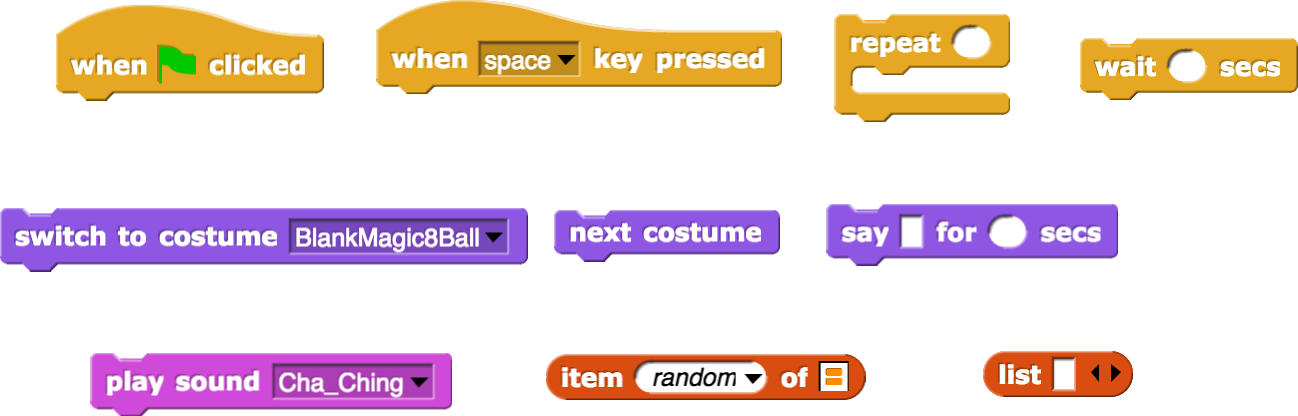
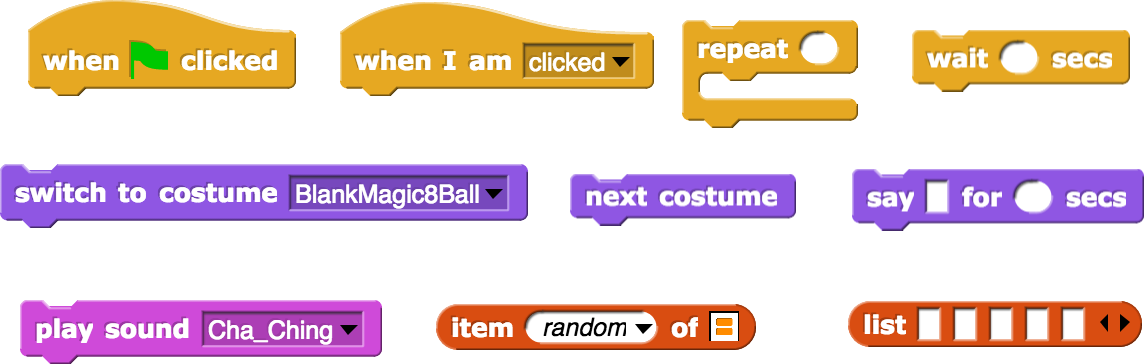
Magic 8 Ball edits

diff --git a/cur/programming/2-conditionals-abstraction-testing/new/magic8ball.html b/cur/programming/2-conditionals-abstraction-testing/new/magic8ball.html
@@ -27,9 +27,14 @@ In the “Diary of a Wimpy Kid” series book titled “Hard Luck”, the hilari
 
 <div class="forYouToDo"> 
 <ol>
-<li>Open the file <a href="http://snap.berkeley.edu/snapsource/snap.html#present:Username=selimtezel&ProjectName=Magic8Ball_Teacher&hideControls" target="_blank">linked here</a> and play with the simulation to get a feel for the toy what you are trying to model.</li> 
-
-<li>The possible answers that the toy gives to a YES/NO question is:<br />
+<li>
+<!--Open the file <a href="http://snap.berkeley.edu/snapsource/snap.html#present:Username=selimtezel&ProjectName=Magic8Ball_Teacher&hideControls" target="_blank">linked here</a> and play with the simulation to get a feel for the toy what you are trying to model.
+-->
+Watch this video to get a feel for the toy you will be modeling. <br />
+<div class="sidenote">If your connection blocks YouTube, <a href="http://scratch.mit.edu/discuss/youtube/QzN1vbU4xEw" target="_blank">watch the video here</a>.</div>
+<iframe class="indent" width="560" height="315" src="https://www.youtube.com/embed/QzN1vbU4xEw?rel=0" frameborder="0" allowfullscreen></iframe>
+</li> 
+<li>Here are some possible answers that the toy can give to a YES/NO question:<br />
 
 <table class="indent">
 <tr><td>&nbsp&nbsp Outlook uncertain&nbsp&nbsp</td></tr>
@@ -38,18 +43,17 @@ In the “Diary of a Wimpy Kid” series book titled “Hard Luck”, the hilari
 <tr><td>&nbsp&nbsp It is certain</td></tr>
 <tr><td>&nbsp&nbsp Not likely </td></tr>
 <tr><td>&nbsp&nbsp Reply hazy</td></tr>
-<tr><td>&nbsp&nbsp May be</td></tr>
+<tr><td>&nbsp&nbsp Maybe</td></tr>
 <tr><td>&nbsp&nbsp Without a doubt</td></tr>
 </table>
 <br />
-What kind of a data structure would you use in your code to store and retrieve the answer choices?</li>
 
 <li>Open and examine this <a href="http://snap.berkeley.edu/snapsource/snap.html#present:Username=selimtezel&ProjectName=Magic8Ball_Student" target="_blank"> starter project file</a> where two costumes and a sound file have already been created for you. </li>
 <div class="sidenote">If you get stuck, you can look at <a href="/bjc-r/cur/programming/2-conditionals-abstraction-testing/new/magic8ball-hints.html" target="_blank">this page</a> for some more information.</div>
-<li>Write code to model the toy.  Feel free to change any aspects of the project to personalize the project and fit your creative needs.  For example, consider changing the predictions of the ball; use new images for the costumes and may be even add another sound file.</li>
+<li>Write code to model the toy.  Feel free to change any aspects of the project to personalize the project and fit your creative needs.  For example, consider changing the predictions of the ball; use new images for the costumes and maybe even add another sound file.</li>
 
 </ol>
- 
+ </div>
 <div class="ifTime">
 <ol start="5">
 <li>Wikipedia entry for the <em>Magic 8 Ball </em><sup>&reg</sup> mentions that in the original standard version of the toy there were 20 possible answers that the toy could give.  Ten of the possible answers are affirmative (<span style="color:green">green</span>), five are non-committal (<span style="color:blue">blue</span>), and five are negative (<span style="color:red">red</span>).  Change your code to include this greater set of choices.<br />

diff --git a/cur/programming/2-conditionals-abstraction-testing/new/magic8ball-hints.html b/cur/programming/2-conditionals-abstraction-testing/new/magic8ball-hints.html
@@ -8,15 +8,15 @@
 
 <body>
 <h2>Magic 8 Ball Hints</h2>
-A list is the natural choice to use in storing the answer options you will need to access in your modeling of the <em>Magic 8 Ball</em><sup>&reg</sup>.
+<!--A list is the natural choice to use in storing the answer options you will need to access in your modeling of the <em>Magic 8 Ball</em><sup>&reg</sup>.
 <img class="indent" src="/bjc-r/img/2-conditionals-abstraction-testing/Magic8Ball_img/list.png"  height="50" alt="Choices in a list" title="Choices in a list"/><br />
 Under the “Variables” block menu, Snap<em>!</em> provides some very handy blocks to store data in a list, together with some blocks that allow you to access and modify the stored data.<br />
  <img class="indent" src="/bjc-r/img/2-conditionals-abstraction-testing/Magic8Ball_img/listBlocks.png"  height="400" alt="List blocks" title="List blocks"/><br />
 
-You can then use <img src="/bjc-r/img/2-conditionals-abstraction-testing/Magic8Ball_img/randomListItem.png"  height="35" alt="Block to choose a random item from a list" title="Block to choose a random item from a list"/> to randomly select an answer stored in the list.
+You can then use <img src="/bjc-r/img/2-conditionals-abstraction-testing/Magic8Ball_img/randomListItem.png"  height="35" alt="Block to choose a random item from a list" title="Block to choose a random item from a list"/> to randomly select an answer stored in the list.-->
 
 <div class="forYouToDo">
-Discuss with your partner the sequence of events that should take place when the “Space” key is pressed and write code to execute this sequence.  The following blocks may be helpful.<br />
+Discuss with your partner the sequence of events that should take place and write code to execute this sequence.  The following blocks may be helpful.<br />
 <img class="indent" src="/bjc-r/img/2-conditionals-abstraction-testing/Magic8Ball_img/HintBlocks.png" width="700"  alt="Hint blocks" title="Hint blocks"/>
 </div>
 </body>
